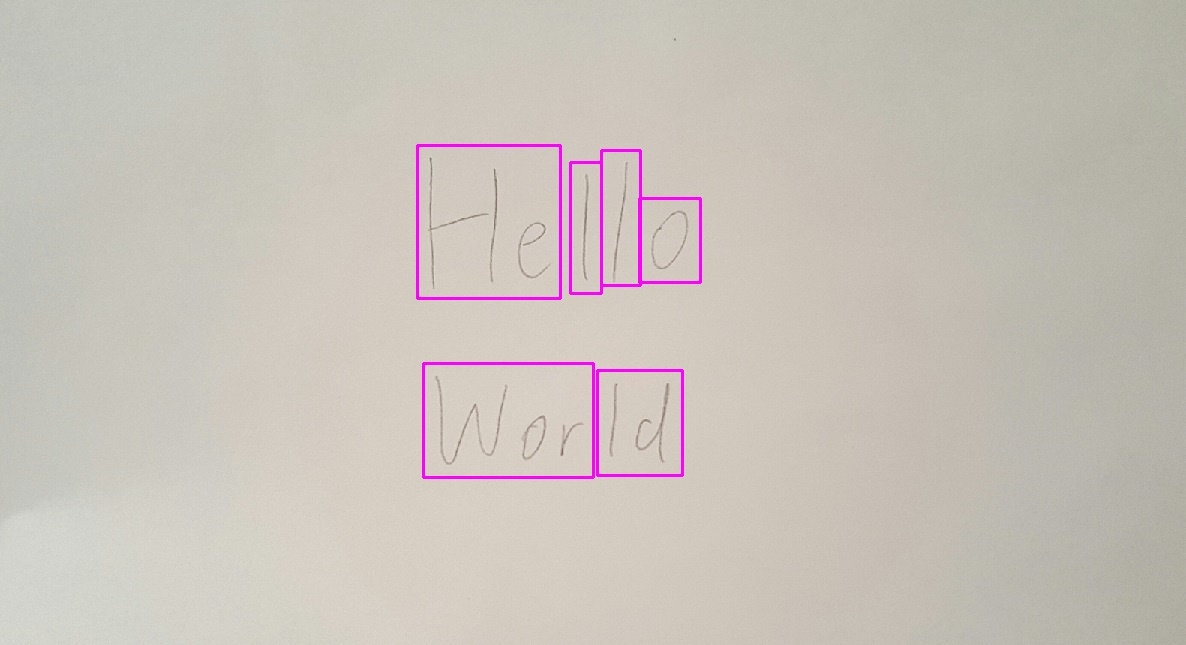
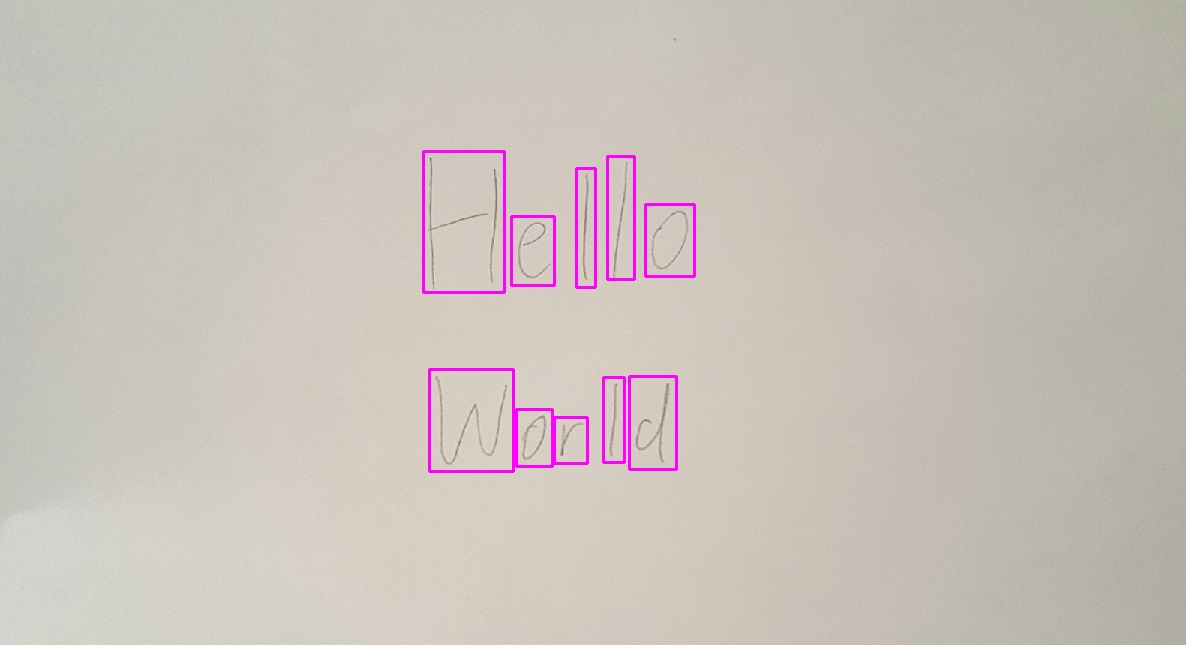
started NN

Changed region(s): [[0.3432, 0.2171, 0.5927, 0.4651], [0.3432, 0.5581, 0.5927, 0.7442]]

diff --git a/neural_network.py b/neural_network.py
@@ -1,0 +1,69 @@
+from keras.models import Sequential
+from keras.layers import Dense, Activation, Convolution2D, MaxPooling2D, Dropout, Flatten
+from collections import namedtuple
+import cv2
+import numpy as np
+
+Params = namedtuple("Params", ["input_dims", "output_dims",
+                               "num_hidden_layers", "hidden_layer_size",
+                               "activation_fcn"])
+
+
+def build_model(model_params):
+    model = Sequential()
+    model.add(Convolution2D(32, 5, 5, border_mode='valid', input_shape=(1, 28, 28), activation='relu'))
+    model.add(MaxPooling2D(pool_size=(2, 2)))
+    model.add(Dropout(0.2))
+    model.add(Flatten())
+    model.add(Dense(output_dim=model_params.hidden_layer_size,
+                    input_dim=model_params.input_dims))
+    model.add(Activation(model_params.activation_fcn))
+
+    # for _ in range(model_params.num_hidden_layers - 1):
+    #     model.add(Dense(output_dim=model_params.hidden_layer_size))
+    #     model.add(Activation(model_params.activation_fcn))
+
+    model.add(Dense(output_dim=model_params.output_dims))
+    model.add(Activation("softmax"))
+
+    model.compile(loss="categorical_crossentropy", optimizer="adagrad", metrics=["accuracy"])
+    return model
+
+
+def get_digits_data():
+    img = cv2.imread("digits.png")
+    gray = cv2.cvtColor(img, cv2.COLOR_BGR2GRAY)
+
+    cells = [np.hsplit(row, 100) for row in np.vsplit(gray, 50)]
+
+    x = np.array(cells)
+
+    train = x[:, :50].reshape(-1, 400).astype(np.float32)
+    test = x[:, 50:100].reshape(-1, 400).astype(np.float32)
+
+    k = np.arange(10)
+    train_labels = np.ndarray.flatten(np.repeat(k, 250)[:, np.newaxis])
+    test_labels = train_labels.copy()
+
+    return train, test, train_labels, test_labels
+
+
+def main():
+    print("START")
+    model_params = Params(400, 62, 5, 5, "relu")
+    model = build_model(model_params)
+
+    train, test, train_labels, test_labels = get_digits_data()
+
+    print(np.shape(train))
+    print(np.shape(test))
+    print(np.shape(train_labels))
+    print(np.shape(test_labels))
+
+    # model.fit(train, train_labels, batch_size=32, num_epoch=10)
+    # scores = model.evaluate(test, test_labels)
+    # print("Error = %.2f%%" %(100-scores[1]*100))
+
+
+if __name__ == "__main__":
+    main()

diff --git a/main.py b/main.py
@@ -51,13 +51,13 @@ def detect_letters(image):
 # Actually is able to draw bounding boxes
 def detect_letters_bounding_boxes(image):
     gray = cv2.cvtColor(image, cv2.COLOR_BGR2GRAY)  # grayscale
-    print(gray)
+    # print(gray)
     _, thresh = cv2.threshold(gray, 165, 255, cv2.THRESH_BINARY_INV)  # threshold
 
     cv2.imshow("threshold", thresh)
 
     kernel = cv2.getStructuringElement(cv2.MORPH_RECT, (3, 3))
-    dilated = cv2.dilate(thresh, kernel, iterations=13)  # dilate
+    dilated = cv2.dilate(thresh, kernel, iterations=7)  # dilate
 
     cv2.imshow("dilated", dilated)
 
